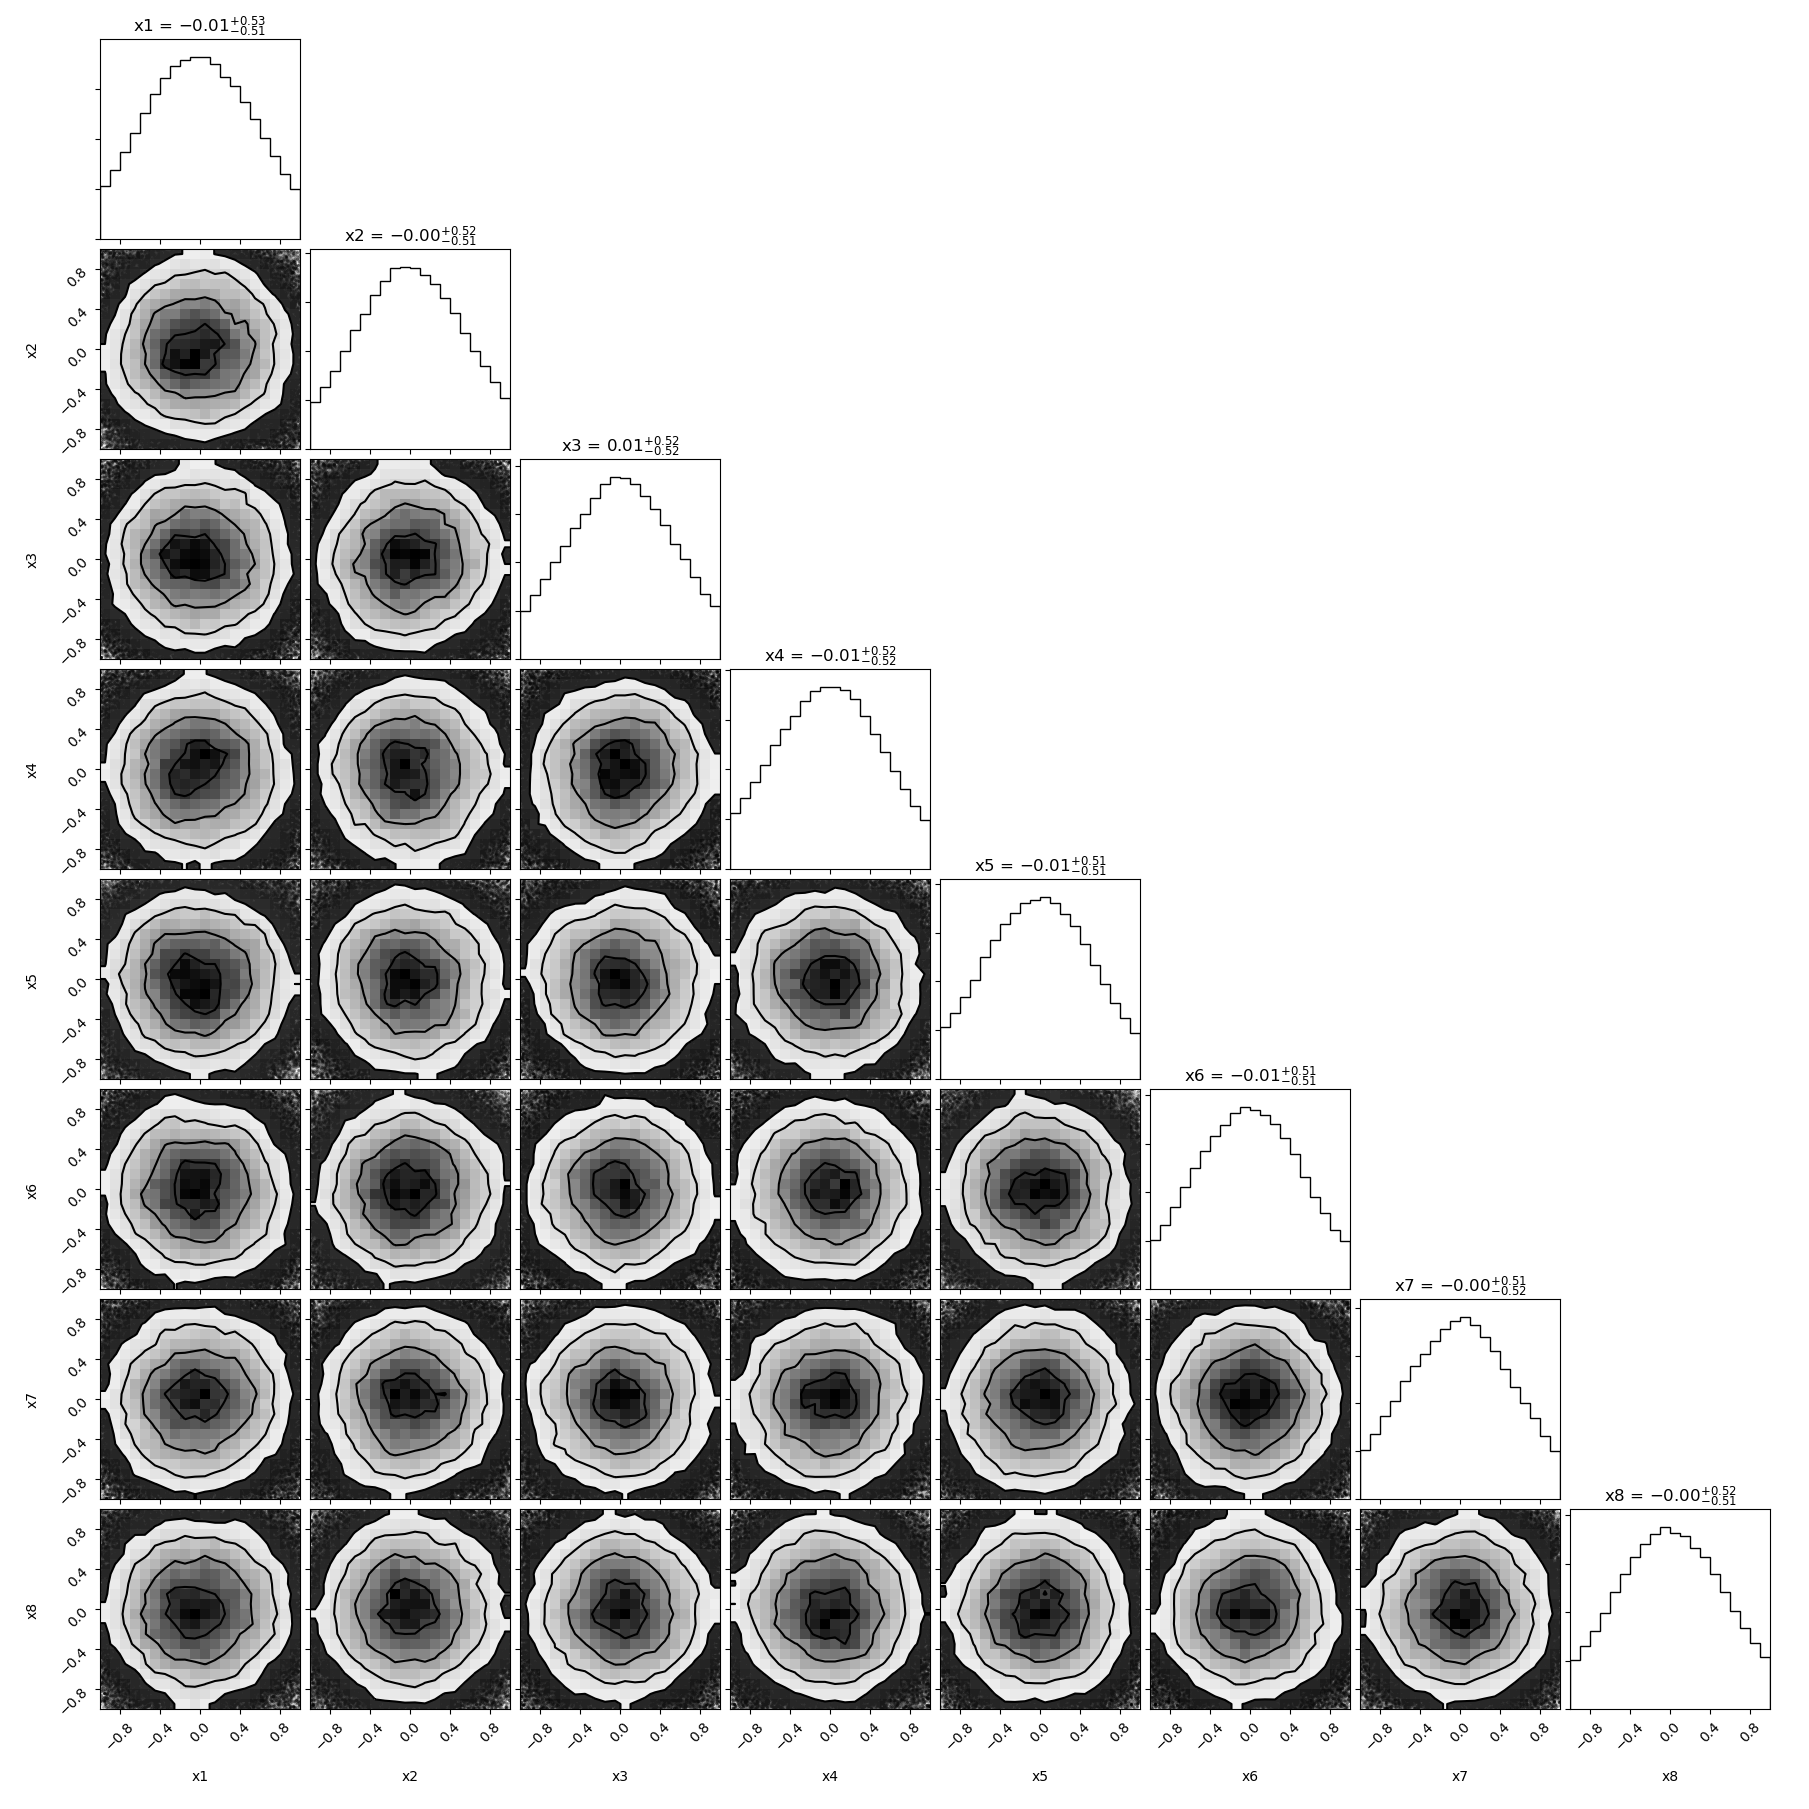
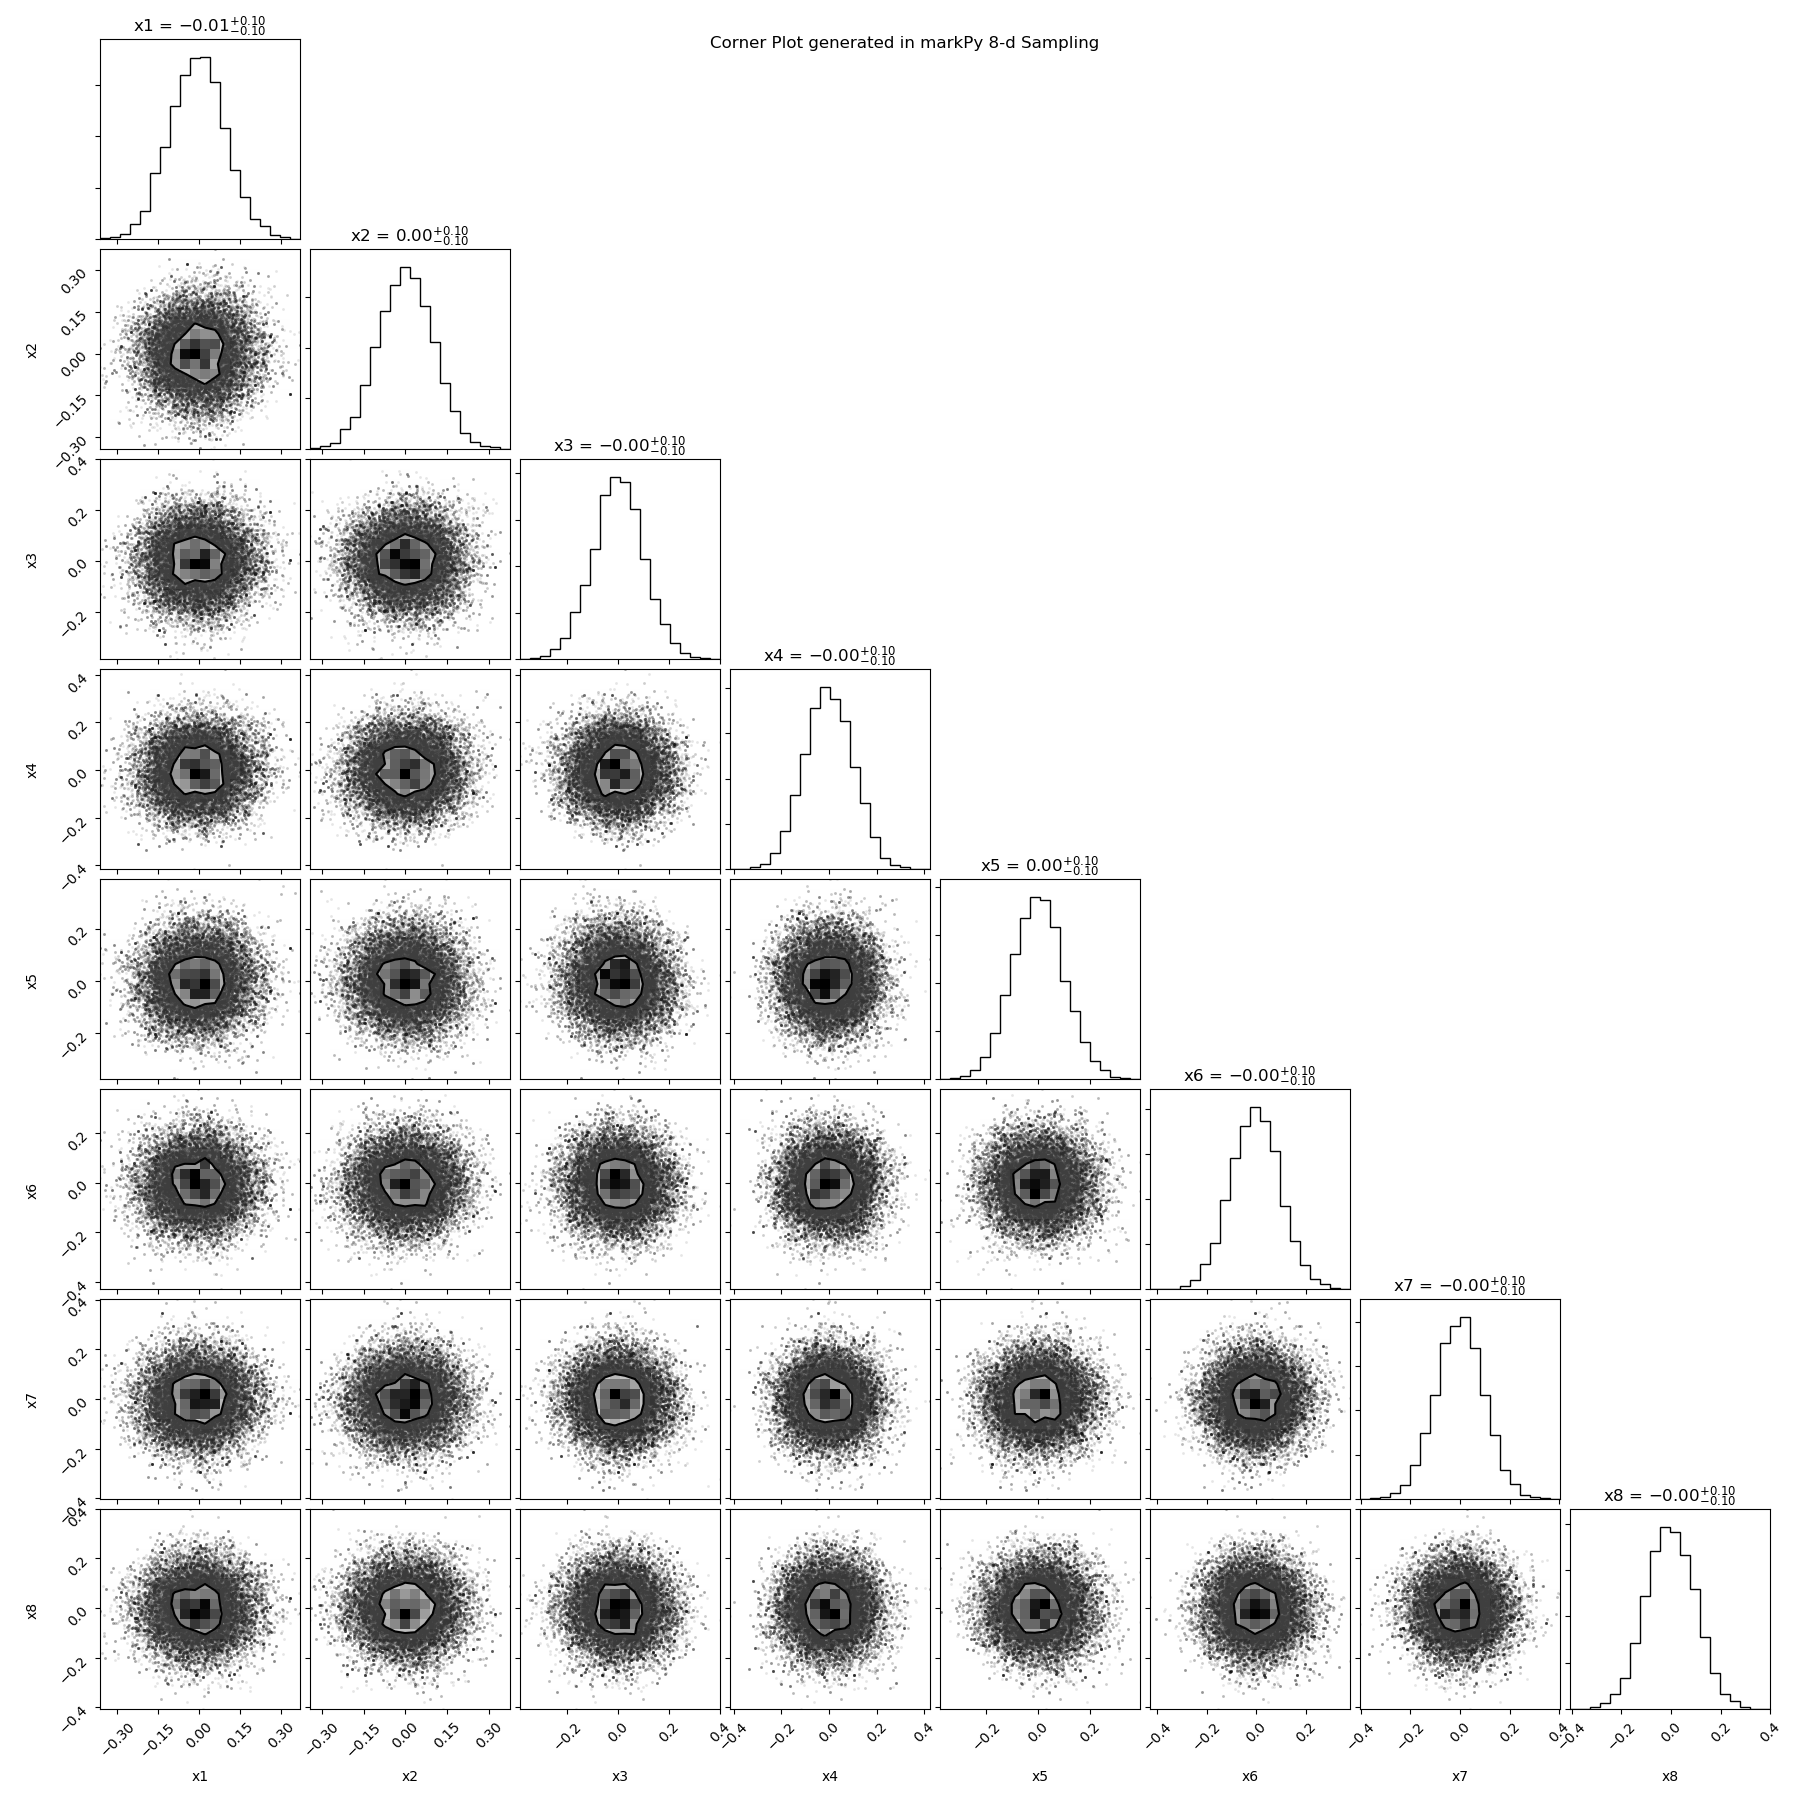
cleaned up the plot in plot_geweke fct

diff --git a/markpy/models.py b/markpy/models.py
@@ -75,9 +75,7 @@ class BaseModel(object):
         # TODO: NEED TO IMPLEMENT ADDING THESE STATIC PARAMETERS INTO OUR CODE BASE FOR THE POSTERIOR CALCS
 
         # check to make sure the inputed arg (if one given) is right shape needed for prior_stats
-        if prior_stats is None:
-            self.prior_stats = []
-        else:
+        if prior_stats is not None:
             self.prior_stats = np.array(prior_stats)
             if self.prior_stats.shape != (2, self.dim):
                 raise ValueError("prior_stats must be of shape=(2, ndim)")
@@ -180,20 +178,20 @@ class BaseModel(object):
         """
         return self.subtype
 
-    @property
-    def get_prior_stats(self):
-        """
-        method that will return prior stats that involve a mean, and cov (sigs) to pick the starting sample of our chain
-        if no priorrange is given. We start somewhere normally distributed around each params mean given in prior_stats
-        with each given sig for each param also in prior_stats
-        :return: returns the prior stats that have shape (2, ndim)
-        """
-
-        # Check to make sure a priorrange or prior_stats are given
-        if len(self.prior_stats) == 0:
-            raise ValueError("ERROR: If no prior-range given, Model object must have method get_prior_stats.")
-        else:
-            return self.prior_stats
+    # @property
+    # def get_prior_stats(self):
+    #     """
+    #     method that will return prior stats that involve a mean, and cov (sigs) to pick the starting sample of our chain
+    #     if no priorrange is given. We start somewhere normally distributed around each params mean given in prior_stats
+    #     with each given sig for each param also in prior_stats
+    #     :return: returns the prior stats that have shape (2, ndim)
+    #     """
+    #
+    #     # Check to make sure a priorrange or prior_stats are given
+    #     if len(self.prior_stats) == 0:
+    #         raise ValueError("ERROR: If no prior-range given, Model object must have method get_prior_stats.")
+    #     else:
+    #         return self.prior_stats
 
 class BaseInferModel(BaseModel):
     """

diff --git a/markpy/convergence_tests.py b/markpy/convergence_tests.py
@@ -133,24 +133,25 @@ def plot_geweke(chain, seglen,filename, ref_start=None, start=0, end=None):
     data = np.zeros([int(start+niter/seglen), ndim, nchains])
     ends = np.zeros([int(start+niter/seglen), ndim, nchains])
     starts = np.zeros([int(start+niter/seglen), ndim, nchains])
-    fig, axs = plt.subplots(ndim*nchains, sharex='col')
+    fig, axs = plt.subplots(ndim*nchains, sharex='col', sharey='col')
+    plt.subplots_adjust(hspace=0.5)
     ct = 0
     for i in range(ndim):
         for j in range(nchains):
             ax = axs[ct]
             data[:,i,j], starts[:,i,j], ends[:,i,j] = geweke(chain[:,i,j], seglen, ref_start, start, end)
-            ax.plot(0.5*(starts[:,i,j]+ends[:,i,j]), data[:,i,j], 'r.')
+            ax.plot(0.5*(starts[:,i,j]+ends[:,i,j]), data[:,i,j], 'ro', markersize=0.5)
+            ax.set_ylabel('z')
             good = 0
             for point in data[:,i,j]:
                 if point <= 2 or point >= -2:
                     good += 1
-            frac = float(good/int(start+niter/seglen))
-            plt.title("%s%% of points within good z-score range for convergence" % frac )
+            frac = float(good/int(start+niter/seglen))*100
+            ax.set_title("%s%% acceptable" % frac )
             ax.hlines(2, 0, niter, colors='b')
             ax.hlines(-2, 0, niter, colors='b')
             ct += 1
     plt.xlabel('Iteration')
-    plt.ylabel('Geweke statistic z-score')
     plt.suptitle('Geweke Convergence Test - %s chains, %s dimensions' %(nchains, ndim))
     plt.savefig(filename)
     plt.show()

diff --git a/test_normal_analytic.py b/test_normal_analytic.py
@@ -37,11 +37,11 @@ def main():
     sigs = np.array(np.random.normal(0.8,0.05,dimension))
 
     means = np.full(dimension, 0)
-    sigs = np.full(dimension, .01)
-
+    sigs = np.full(dimension, .08)
+    stats = np.array([means, sigs])
     params = ['x1', 'x2', 'x3', 'x4', 'x5', 'x6', 'x7', 'x8']
     sigmaprop = 0.08
-    norm_model = mp.NormModelAnalytic(params, sigs, means)
+    norm_model = mp.NormModelAnalytic(params, sigs, means, prior_stats=stats)
     mc = mp.MarkChain(norm_model, dimension, sigmaprop)
 
     Nsteps = 500000
@@ -49,7 +49,7 @@ def main():
     c = mc.get_burn_samps()
     chain = np.zeros([len(c[:,0]),len(c[0,:]),1])
     chain[:,:,0] = c
-    mp.corner_plot(chain, params, 'norm_analytic_%s-d.png' % dimension)
+    #mp.corner_plot(chain, params, 'norm_analytic_%s-d.png' % dimension)
     file = 'geweke_test_normal_analytic_%s-d.png' % dimension
     mp.plot_geweke(chain, 100, file)
     return None

diff --git a/markpy/sampler.py b/markpy/sampler.py
@@ -50,13 +50,11 @@ class MarkChain(object):
         self.model = Model
 
         # initialize the first sample in correct data structure
-        if priorrange is None:
-            try:
-                stats = self.model.get_prior_stats()
-            except ValueError:
-                print("ERROR: If no prior-range given, Model object must have method get_prior_stats.")
+        if priorrange is None and self.model.prior_stats is None:
+            raise ValueError("ERROR: If no prior-range given, Model object must have method get_prior_stats.")
 
-            self.oldsamp = np.random.normal(stats[0], stats[1])
+        if priorrange is None:
+            self.oldsamp = np.random.normal(self.model.prior_stats[0], self.model.prior_stats[1])
             self.priorrange = np.full((d,2), np.inf)
             self.priorrange[:,0] *= -1
         else:
